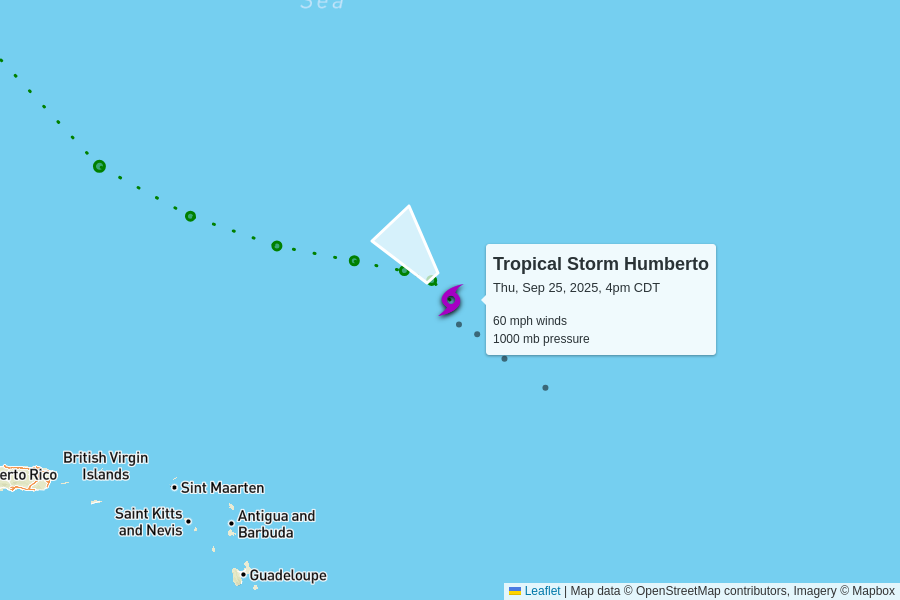
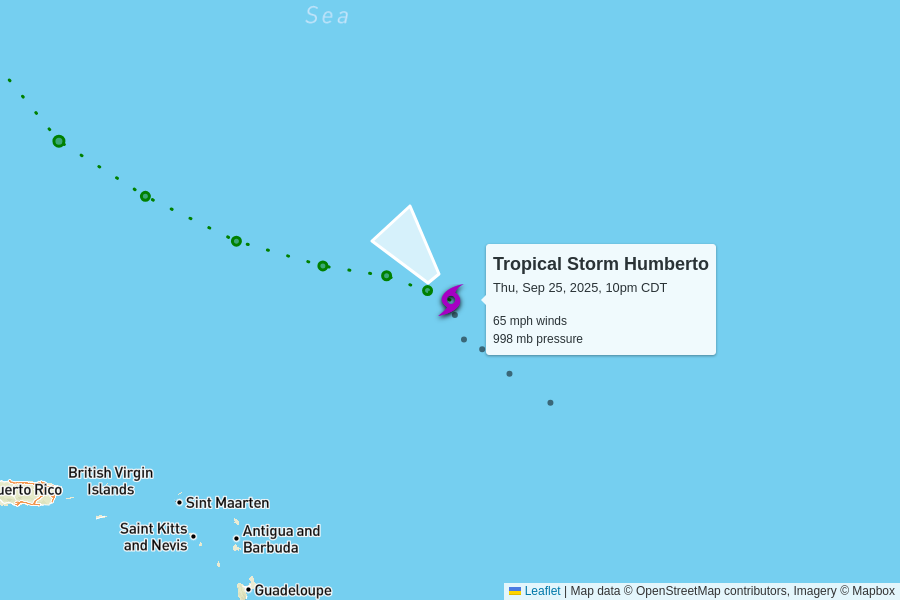
automatic update

diff --git a/docs/index.html b/docs/index.html
@@ -103,6 +103,50 @@
       <tr>
         <td colspan="6" class="storm category-0" >
           <h2>
+            Tropical Storm Humberto
+            <p class="updated">last updated <span data-time>2025-09-26T03:00:00.000Z</span></p>
+          </h2>
+        </td>
+      </tr>
+      
+      <tr>
+        <th class="spacer"></th>
+        <th>wind speed</th>
+        <th>central pressure</th>
+        <th>movement</th>
+        <th>data (CSV)</th>
+        <th>National Hurricane Center</th>
+      </tr>
+      <tr>
+        <td class="spacer"></td>
+        <td>65 mph<br>+5 mph since last update</td>
+        <td>998 mb<br>-2 mb since last update</td>
+        <td>
+          3 mph to the northwest
+          <br/>
+          <span style="display: inline-block; font-size: 1.5em; transform: rotate(320deg);">↑</span>
+        </td>
+        <td><a href="https://raw.githubusercontent.com/mgwalker/atlantic-hurricanes/main/data/csv/AL082025.csv">AL082025.csv</a></td>
+        <td><a href="https://www.nhc.noaa.gov/archive/2025/HUMBERTO.shtml?">NHC advisories</a></td>
+      </tr>
+      <tr id="storm_AL082025" >
+        <td class="spacer">
+        <td colspan="5">
+          <figure>
+            <img src="AL082025.png">
+            <figcaption>
+              Map data &copy; <a href="https://www.openstreetmap.org/copyright">OpenStreetMap</a> contributors,
+              Imagery &copy; <a href="https://www.mapbox.com/">Mapbox</a> |
+              <a href="https://www.mapbox.com/map-feedback/" target="_blank">Improve this map</a>
+            </figcaption>
+          </figure>
+        </td>
+      </tr>
+      
+
+      <tr>
+        <td colspan="6" class="storm category-0" >
+          <h2>
             Post-tropical Cyclone Gabrielle
             <p class="updated">last updated <span data-time>2025-09-25T21:00:00.000Z</span></p>
           </h2>
@@ -134,50 +178,6 @@
         <td colspan="5">
           <figure>
             <img src="AL072025.png">
-            <figcaption>
-              Map data &copy; <a href="https://www.openstreetmap.org/copyright">OpenStreetMap</a> contributors,
-              Imagery &copy; <a href="https://www.mapbox.com/">Mapbox</a> |
-              <a href="https://www.mapbox.com/map-feedback/" target="_blank">Improve this map</a>
-            </figcaption>
-          </figure>
-        </td>
-      </tr>
-      
-
-      <tr>
-        <td colspan="6" class="storm category-0" >
-          <h2>
-            Tropical Storm Humberto
-            <p class="updated">last updated <span data-time>2025-09-25T21:00:00.000Z</span></p>
-          </h2>
-        </td>
-      </tr>
-      
-      <tr>
-        <th class="spacer"></th>
-        <th>wind speed</th>
-        <th>central pressure</th>
-        <th>movement</th>
-        <th>data (CSV)</th>
-        <th>National Hurricane Center</th>
-      </tr>
-      <tr>
-        <td class="spacer"></td>
-        <td>60 mph<br>+10 mph since last update</td>
-        <td>1000 mb<br>-4 mb since last update</td>
-        <td>
-          6 mph to the northwest
-          <br/>
-          <span style="display: inline-block; font-size: 1.5em; transform: rotate(320deg);">↑</span>
-        </td>
-        <td><a href="https://raw.githubusercontent.com/mgwalker/atlantic-hurricanes/main/data/csv/AL082025.csv">AL082025.csv</a></td>
-        <td><a href="https://www.nhc.noaa.gov/archive/2025/HUMBERTO.shtml?">NHC advisories</a></td>
-      </tr>
-      <tr id="storm_AL082025" >
-        <td class="spacer">
-        <td colspan="5">
-          <figure>
-            <img src="AL082025.png">
             <figcaption>
               Map data &copy; <a href="https://www.openstreetmap.org/copyright">OpenStreetMap</a> contributors,
               Imagery &copy; <a href="https://www.mapbox.com/">Mapbox</a> |
